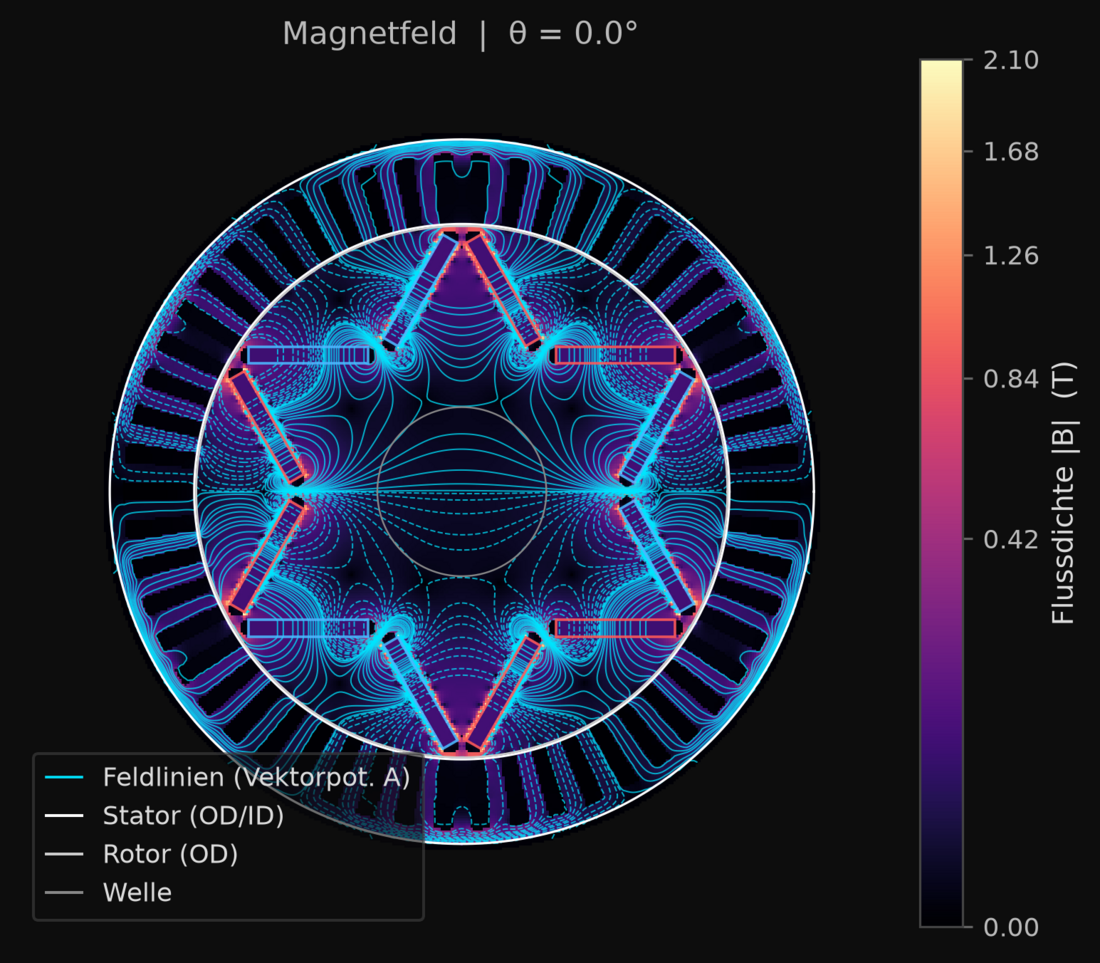
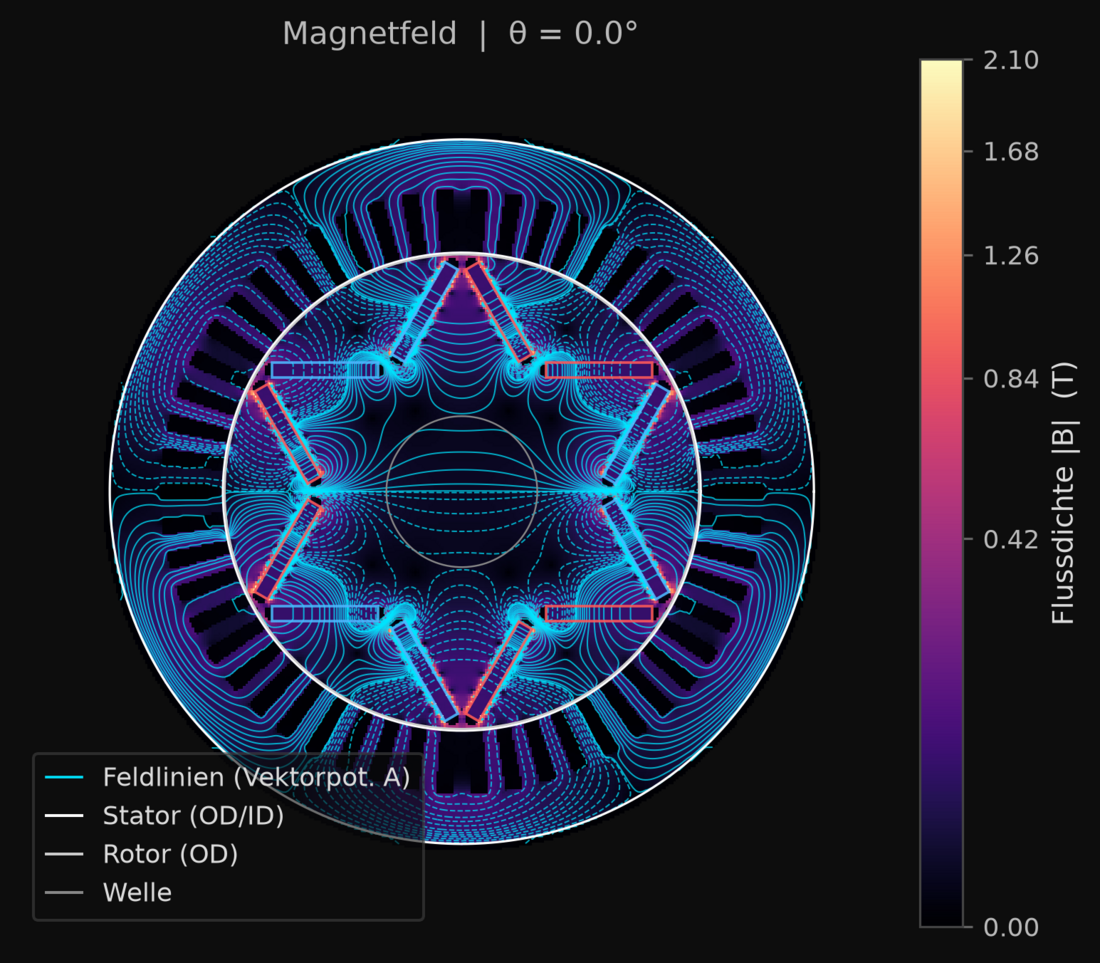
README: Bilder beschrieben und auf ein Beispielprojekt (20261030_212617) vereinheitlicht

Changed region(s): [[0.0927, 0.1246, 0.7418, 0.8723]]

diff --git a/README.de.md b/README.de.md
@@ -24,48 +24,90 @@ PI · Hermes Agent · Herkunftsnachweis · SQLite
 
 ## Was dabei herauskommt
 
+Alle Bilder bis auf die letzten drei stammen aus **einem** gerechneten Beispiel,
+Projekt `20261030_212617`: eine permanenterregte Maschine (PSM) mit 6 Polen und 54
+Nuten, V-förmige Ferritmagnete, Stator 280 mm, Rotor 188,6 mm, Welle 60 mm,
+Paketlänge 140 mm, Rotorblech 42CrMo4, gerechnet bis 16.350 1/min. Der Lauf liefert
+61,8 kW Spitzenleistung (bei 1.839 1/min), 358,9 Nm Spitzenmoment, eine
+Struktur-FEM-Sicherheit von 3,36, Magnet 50,3 °C und Wicklung 53,9 °C. **Und das
+Entscheidungswerkzeug weist sie ab** (`cae_cli.py entscheide`): der Zahn liegt bei
+589 % der 1,70-T-Blechgrenze, und der Arbeitspunkt der Magnete liegt unter dem
+Entmagnetisierungsknie. Das ist mit Absicht gezeigt: ein Entwurf, der sauber rechnet
+und trotzdem abgewiesen wird, ist genau das, wofür die Kette da ist.
+
 <p align="center">
-  <img src="docs/bilder/querschnitt_psm.png" width="46%" alt="Querschnitt einer PSM mit 6 Polen und 54 Nuten, von der Toolchain erzeugt">
+  <img src="docs/bilder/querschnitt_psm.png" width="46%" alt="Querschnitt der Maschine mit 6 Polen und 54 Nuten: Statornuten mit drei Phasen, Rotor mit V-Magneten">
   <img src="docs/bilder/magnetfeld_psm.png" width="52%" alt="2D-Magnetfeld derselben Maschine: Flussdichte und Feldlinien">
 </p>
 
-*Links: der Querschnitt, den die CAD-Stufe für eine 250-mm-PSM zeichnet (6 Pole,
-54 Nuten, dreilagige Wicklung). Rechts: das 2D-Feld derselben Maschine bei
-Rotorwinkel 0° — Flussdichte als Farbe, Linien des Vektorpotentials darüber. Beides
-stammt aus einem Lauf (Projekt `20261030_202321`), nicht aus einem Zeichenprogramm.*
+*Links: der Querschnitt, den die CAD-Stufe zeichnet — Statorblech mit den drei
+Wicklungssträngen A/B/C in 54 Nuten, Rotorblech, Nord- (rot) und Südmagnete (blau) in
+V-Paaren, Welle. Rechts: das 2D-Feld derselben Maschine bei Rotorwinkel 0° (statisches Feld):
+Flussdichte als Farbe, Linien des Vektorpotentials darüber; das Feld konzentriert
+sich an den Magnetenden und den Stegen — dort beginnen die Probleme der nächsten
+Bilder.*
+
+<p align="center">
+  <img src="docs/bilder/magnetfliehkraft.png" width="49%" alt="Fliehkraft der Magnete auf die Taschenwände bei 16.350 1/min">
+  <img src="docs/bilder/eisenausnutzung.png" width="49%" alt="Eisenausnutzung: Zahn bei 598 % der 1,70-T-Grenze, Joch bei 473 %">
+</p>
+
+*Links: bei 16.350 1/min zieht jeder Magnet mit 37,2 kN (74,3 kN je Pol) an seinen
+Taschenwänden — Flanke orange, Endkappe grün. Die Struktur-FEM ließ diese Last früher
+aus; sie geht jetzt in die Stegprüfung ein (Richtwert 204 MPa am 1,30-mm-Steg:
+Ringspannung 178 MPa, überlagert 383 MPa). Rechts: die Eisenausnutzung aus der
+Flusserhaltung — Zahn 10,16 T = 598 %, Statorjoch 473 %, Rotorjoch 330 % der
+1,70-T-Grenze. Das ist aus der Flussbilanz gerechnet, **nicht** aus einem gelösten
+Feld, und das Bild sagt es unten selbst. Die Zahl stammt aus einem früheren
+Werkzeugstand; ein späterer `entscheide`-Lauf am selben Projekt gibt 589 % — sie
+hat sich mit dem Werkzeug bewegt, und deshalb trägt jede abgelegte Zahl den
+Fingerabdruck des Werkzeugs.*
+
+<p align="center">
+  <img src="docs/bilder/thermik.png" width="70%" alt="Endtemperaturen je Bauteil und Aufheizverlauf über 30 Minuten">
+</p>
+
+*Das Wärmenetz desselben Laufs (Wassermantel um den Stator, 25 °C Umgebung):
+Endtemperaturen je Bauteil — Wicklung 54 °C, Magnet 50 °C — gegen die Magnetgrenze
+(150 °C) und Isolierklasse H (180 °C), dazu der Aufheizverlauf über 30 Minuten. Die
+Temperatur hat reichlich Reserve; gebunden wird die Auslegung vom Eisen, nicht von
+der Wärme.*
 
 <p align="center">
   <img src="docs/bilder/magnetschluss_feldlinien.png" width="55%" alt="Feldlinien nach Weg: rot bleibt im Läufer, cyan geht durch den Luftspalt">
 </p>
 
-*Das Bild hinter `magnetschluss`: Feldlinien nach Weg sortiert — rot bleibt im Läufer
-(magnetischer Kurzschluss), cyan geht durch den Luftspalt. Es ist dafür gezeichnet,
-dass ein Sehmodell es gegen die gemessene Zahl liest; **die Zahl entscheidet**, das
-Bild liest nur gegen. Gezeigt ist eine Testgeometrie aus der Eichung, keine gebaute
-Maschine.*
+*Das Bild hinter `magnetschluss`, gezeichnet für eine **Testgeometrie** aus der
+Eichung (ein Läufer mit radialen Stabmagneten), nicht für die Maschine oben: Feldlinien nach
+Weg sortiert — rot bleibt im Läufer (magnetischer Kurzschluss), cyan geht durch den
+Luftspalt. Ein Sehmodell liest es gegen den gemessenen Streuanteil; **die Zahl
+entscheidet**, das Bild liest nur gegen.*
 
-### Mehr aus derselben Kette
-
-<p align="center">
-  <img src="docs/bilder/cad_freecad.jpg" width="49%" alt="Erzeugtes CAD-Modell in FreeCAD: Rotor, Magnete und Hairpin-Wickelköpfe">
-  <img src="docs/bilder/feld3d_viewer.jpg" width="49%" alt="3D-Feld im Browser-Betrachter: Feldlinien nach Flussdichte gefärbt über dem Netz">
-</p>
-
-*Links: das erzeugte CAD-Modell in FreeCAD (Welle, Rotor mit Wuchtschrauben, Magnete, Stator, drei Spulengruppen mit Hairpin-Wickelköpfen). Rechts: das 3D-Feld (Elmer) im Browser-Betrachter — Feldlinien nach |B| (log) gefärbt, das Netz eingeblendet.*
+Die nächsten drei sind **Bildschirmfotos aus Arbeitssitzungen** und gehören nicht zum
+Beispiel oben.
 
 <p align="center">
-  <img src="docs/bilder/magnetfliehkraft.png" width="49%" alt="Fliehkraft der Magnete auf die Taschenwände">
-  <img src="docs/bilder/eisenausnutzung.png" width="49%" alt="Eisenausnutzung: Zahn bei 598 % der 1,70-T-Grenze">
+  <img src="docs/bilder/cad_freecad.jpg" width="49%" alt="Erzeugtes CAD-Modell in FreeCAD">
+  <img src="docs/bilder/feld3d_viewer.jpg" width="49%" alt="3D-Feld im Browser-Betrachter">
 </p>
 
-*Links: die Fliehkraft der Magnete auf die Taschenwände — eine Last, die die Struktur-FEM früher ausließ. Rechts: ein Entwurf, den das Werkzeug **abweist**: nach der Flusserhaltung steht der Zahn bei 598 % und das Joch bei 473 % der 1,70-T-Blechgrenze. Gerechnet ist das aus der Flussbilanz, nicht aus einem gelösten Feld, und das Bild sagt es unten selbst.*
+*Links: ein von der Toolchain erzeugtes CAD-Modell, in FreeCAD geöffnet — Modellbaum
+mit Welle, Rotor, Wuchtschrauben, Nord- und Südmagneten, Stator und den drei
+Spulengruppen; Hairpin-Wickelköpfe an beiden Enden, ein gebohrter Rotor mit
+Wuchtschrauben-Löchern. Rechts: das 3D-Feld (Elmer) im Browser-Betrachter —
+Feldlinien nach |B| auf logarithmischer Skala (0,01 bis 2,40 T) über dem
+eingeblendeten Netz; die roten Zonen sind die höchste Flussdichte (um 2,4 T).*
 
 <p align="center">
-  <img src="docs/bilder/thermik.png" width="49%" alt="Endtemperaturen und Aufheizverlauf des Wärmenetzes">
-  <img src="docs/bilder/ki_training.jpg" width="49%" alt="Trainings-Reiter des Surrogats: Verlust, RMSE gegen das Abnahme-Tor, Lernrate">
+  <img src="docs/bilder/ki_training.jpg" width="80%" alt="Trainings-Reiter des Surrogats: Verlust, RMSE gegen das Abnahme-Tor, Lernrate, Protokoll">
 </p>
 
-*Links: das Wärmenetz — Endtemperaturen gegen die Grenzen von Magnet und Wicklung. Rechts: das **angehaltene** Surrogat (`physics_surrogate`): bester RMSE 0,054 gegen ein Abnahme-Tor von 0,03; das Lernratenfeld ist da, weil Läufe mit Kosinus-Lernrate nie bei gleicher Epoche verglichen werden dürfen.*
+*Das **angehaltene** Surrogat (`physics_surrogate`), Trainings-Reiter: vier Läufe,
+relativer L2-Fehler auf dem Vektorpotential (links), RMSE des radialen
+Luftspaltfelds gegen das Abnahme-Tor von 0,03 (Mitte; bestenfalls 0,054, das Tor ist
+nicht erreicht) und die Lernraten (rechts). Die Raten stehen dabei, weil Läufe mit
+Kosinus-Lernrate nie bei gleicher Epoche verglichen werden dürfen. Diese Stufe ist
+nicht in die Kette verdrahtet (siehe „Zusammenspiel“).*
 
 ## Teilprojekte
 

diff --git a/README.md b/README.md
@@ -21,47 +21,86 @@ Ollama · agent skill · PI · Hermes Agent · provenance tracking · SQLite
 
 ## What it produces
 
+Every figure below except the last three comes from **one** computed example,
+project `20261030_212617`: a 6-pole, 54-slot permanent-magnet machine (PSM), V-shaped
+ferrite magnets, stator 280 mm, rotor 188.6 mm, shaft 60 mm, stack 140 mm, rotor
+sheet 42CrMo4, run to 16,350 rpm. The run gives 61.8 kW peak power (at 1,839 rpm),
+358.9 Nm peak torque, a structural FEM safety factor of 3.36, magnet 50.3 °C and
+winding 53.9 °C. **And the decision tool turns it down** (`cae_cli.py entscheide`):
+the tooth sits at 589 % of the 1.70 T lamination limit and the magnets' operating
+point lies below the demagnetisation knee. It is shown on purpose: a design that
+computes cleanly and is still refused is what the chain is for.
+
 <p align="center">
-  <img src="docs/bilder/querschnitt_psm.png" width="46%" alt="Cross-section of a 6-pole, 54-slot PSM, generated by the toolchain">
+  <img src="docs/bilder/querschnitt_psm.png" width="46%" alt="Cross-section of the 6-pole, 54-slot machine: stator slots with three phases, rotor with V-magnets">
   <img src="docs/bilder/magnetfeld_psm.png" width="52%" alt="2D magnetic field of the same machine: flux density and field lines">
 </p>
 
-*Left: the cross-section the CAD stage draws for a 250 mm PSM (6 poles, 54 slots,
-three-layer winding). Right: the 2D field of the same machine at rotor angle 0° —
-flux density as colour, vector-potential lines on top. Both come out of one run
-(project `20261030_202321`), not from a drawing program.*
+*Left: the cross-section the CAD stage draws — stator laminations with the three
+winding phases A/B/C in 54 slots, rotor laminations, north (red) and south (blue)
+magnets in V-pairs, shaft. Right: the 2D field of the same machine at rotor angle 0°
+(static field): flux density as colour, vector-potential lines on top; the field
+concentrates at the magnet ends and the bridges, which is where the problems below
+start.*
+
+<p align="center">
+  <img src="docs/bilder/magnetfliehkraft.png" width="49%" alt="Centrifugal force of the magnets on the pocket walls, 16,350 rpm">
+  <img src="docs/bilder/eisenausnutzung.png" width="49%" alt="Iron utilisation: tooth at 598 % of the 1.70 T limit, yoke at 473 %">
+</p>
+
+*Left: at 16,350 rpm each magnet pulls with 37.2 kN (74.3 kN per pole) on its pocket
+walls — flank in orange, end cap in green. The structural FEM used to leave this load
+out; it now enters the bridge check (guide value 204 MPa at the 1.30 mm bridge: ring
+stress 178 MPa, superposed 383 MPa). Right: iron utilisation from flux conservation —
+tooth 10.16 T = 598 %, stator yoke 473 %, rotor yoke 330 % of the 1.70 T limit. This
+is computed from the flux balance, **not** from a solved field, and the picture says
+so at the bottom. The figure is from an earlier tool state; a later `entscheide` run
+on the same project gives 589 % — the number moved with the tool, which is why every
+stored figure carries the tool's fingerprint.*
+
+<p align="center">
+  <img src="docs/bilder/thermik.png" width="70%" alt="End temperatures per component and heat-up curve over 30 minutes">
+</p>
+
+*The lumped thermal network of the same run (water jacket around the stator, 25 °C
+ambient): end temperatures per component — winding 54 °C, magnet 50 °C — against the
+magnet limit (150 °C) and insulation class H (180 °C), and the heat-up curve over
+30 minutes. Plenty of thermal margin; it is the iron, not the temperature, that binds.*
 
 <p align="center">
   <img src="docs/bilder/magnetschluss_feldlinien.png" width="55%" alt="Field lines sorted by path: red stays in the rotor, cyan crosses the air gap">
 </p>
 
-*The picture behind `magnetschluss`: field lines sorted by path — red stays in the
-rotor (magnetic short circuit), cyan crosses the air gap. It is drawn for a vision
-model to read against the measured number; **the number decides**, the picture only
-cross-checks it. Shown for a test geometry from the calibration, not for a built machine.*
+*The picture behind `magnetschluss`, drawn for a **test geometry** from the
+calibration (a rotor with radial bar magnets), not for the machine above: field lines
+sorted by path — red stays in the rotor (magnetic short circuit), cyan crosses the air
+gap. A vision model reads it against the measured leakage share; **the number
+decides**, the picture only cross-checks it.*
 
-### More from the same chain
-
-<p align="center">
-  <img src="docs/bilder/cad_freecad.jpg" width="49%" alt="Generated CAD model opened in FreeCAD: rotor, magnets and hairpin winding heads">
-  <img src="docs/bilder/feld3d_viewer.jpg" width="49%" alt="3D field in the browser viewer: field lines coloured by flux density over the mesh">
-</p>
-
-*Left: the generated CAD model opened in FreeCAD (shaft, rotor with balance bolts, magnets, stator, three coil groups with hairpin winding heads). Right: the 3D field (Elmer) in the browser viewer — field lines coloured by |B| (log), the mesh switched on.*
+The next three are **screenshots from working sessions**, not tied to the example
+above.
 
 <p align="center">
-  <img src="docs/bilder/magnetfliehkraft.png" width="49%" alt="Centrifugal force of the magnets on the pocket walls">
-  <img src="docs/bilder/eisenausnutzung.png" width="49%" alt="Iron utilisation: tooth at 598 % of the 1.70 T limit">
+  <img src="docs/bilder/cad_freecad.jpg" width="49%" alt="Generated CAD model opened in FreeCAD">
+  <img src="docs/bilder/feld3d_viewer.jpg" width="49%" alt="3D field in the browser viewer">
 </p>
 
-*Left: the centrifugal force of the magnets on the pocket walls — a load the structural FEM used to leave out. Right: a design the tool **refuses**: flux conservation puts the tooth at 598 % and the yoke at 473 % of the 1.70 T lamination limit. This is computed from flux balance, not from a solved field, and the picture says so at the bottom.*
+*Left: a CAD model generated by the toolchain, opened in FreeCAD — model tree with
+shaft, rotor, balance bolts, north and south magnets, stator and the three coil
+groups; hairpin winding heads on both ends, a bored rotor with balance-bolt holes.
+Right: the 3D field (Elmer) in the browser viewer — field lines coloured by |B| on a
+log scale (0.01 to 2.40 T) over the switched-on mesh; the red zones are the highest flux
+density (about 2.4 T).*
 
 <p align="center">
-  <img src="docs/bilder/thermik.png" width="49%" alt="End temperatures and heat-up curve of the lumped thermal network">
-  <img src="docs/bilder/ki_training.jpg" width="49%" alt="Training tab of the surrogate: loss, RMSE against the acceptance gate, learning rate">
+  <img src="docs/bilder/ki_training.jpg" width="80%" alt="Training tab of the surrogate: loss, RMSE against the acceptance gate, learning rate, log">
 </p>
 
-*Left: the lumped thermal network — end temperatures against the magnet and winding limits. Right: the **stalled** surrogate (`physics_surrogate`): best RMSE 0.054 against a 0.03 acceptance gate, and the learning-rate panel is there because runs with a cosine schedule must never be compared at the same epoch.*
+*The **stalled** surrogate (`physics_surrogate`), training tab: four runs, relative L2
+error on the vector potential (left), RMSE of the radial air-gap field against the
+0.03 acceptance gate (middle; best 0.054, the gate is not reached) and the learning
+rates (right). The rates are shown because runs with a cosine schedule must never be
+compared at the same epoch. This stage is not wired into the chain (see "Wiring").*
 
 ## Subprojects
 
